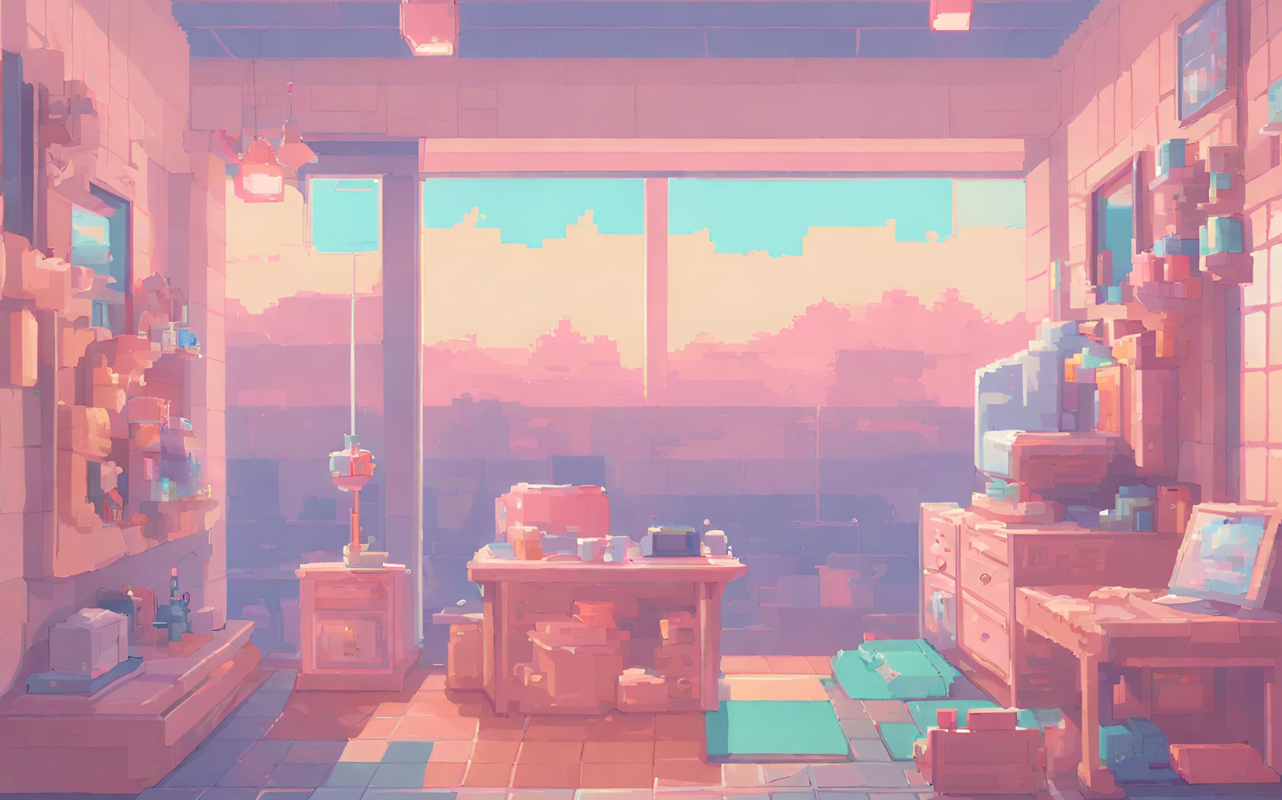
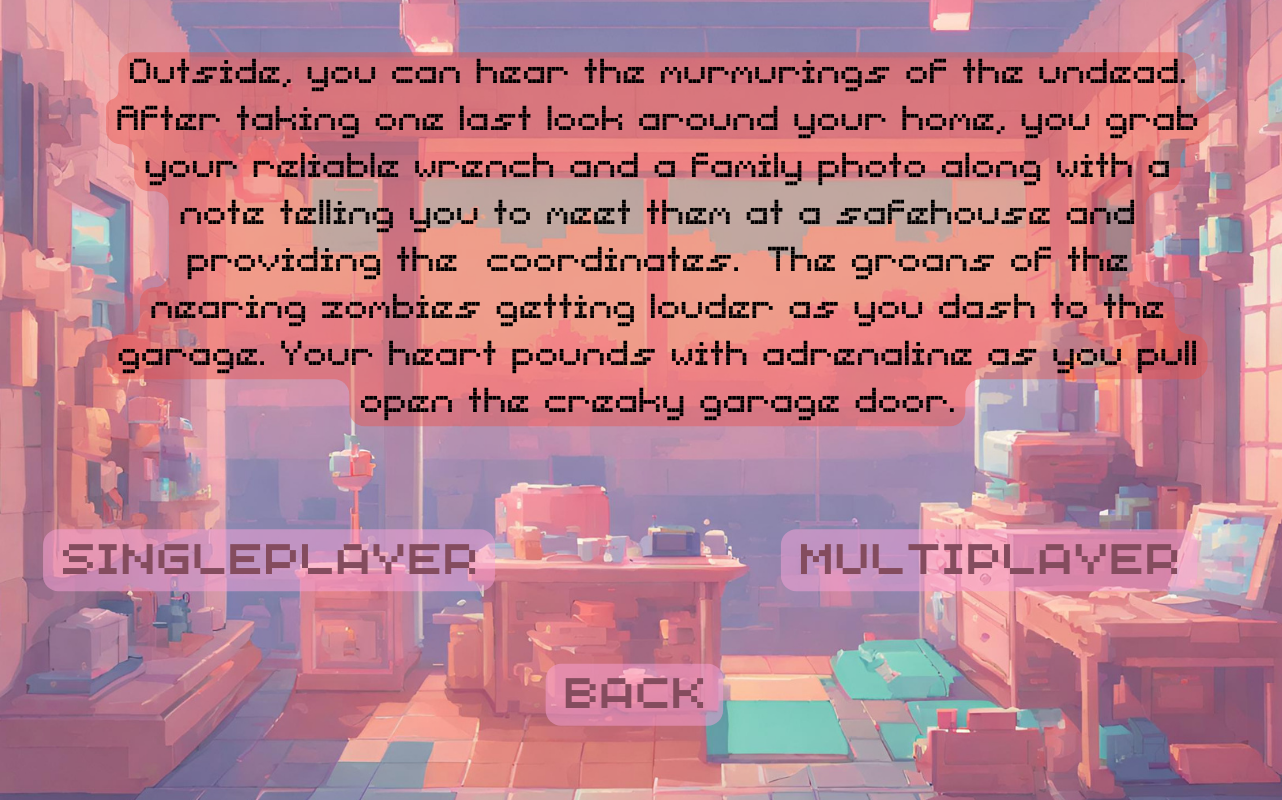
intro to game

diff --git a/game_mode.py b/game_mode.py
@@ -1,0 +1,42 @@
+import sys
+
+from instructions import instructions
+import pygame
+from config import intro_game
+from cursor import Cursor
+
+
+
+def game_intro():
+    pygame.init()
+    # custom cursor image
+    custom_cursor = Cursor()
+    cursor_group = pygame.sprite.Group()
+    cursor_group.add(custom_cursor)
+    # initialize at 1282x800
+    res = (1282, 800)
+    screen = pygame.display.set_mode(res)
+    # name
+    pygame.display.set_caption("Car Racer")
+
+    while True:
+        bg = pygame.image.load(intro_game)
+        screen.blit(bg, (0, 0))
+        # draw mouse
+        cursor_group.draw(screen)
+        cursor_group.update()
+        mouse = pygame.mouse.get_pos()
+        for event in pygame.event.get():
+            if event.type == pygame.QUIT:
+                sys.exit()
+            if event.type == pygame.MOUSEBUTTONDOWN:
+                if 475 <= mouse[0] <= 735 and 595 <= mouse[1] <= 712:  # TODO back to menu
+                    from mainmenu import menu #TODO fix circular import
+                    menu()
+            if event.type == pygame.MOUSEBUTTONDOWN:
+                if 475 <= mouse[0] <= 735 and 595 <= mouse[1] <= 712:  # TODO singleplayer
+                    instructions(1)
+            if event.type == pygame.MOUSEBUTTONDOWN:
+                if 475 <= mouse[0] <= 735 and 595 <= mouse[1] <= 712:  # TODO multiplayer
+                    instructions(2)
+        pygame.display.flip()

diff --git a/instructions.py b/instructions.py
@@ -1,11 +1,11 @@
 import sys
 import pygame
-from config import intructions
+from config import intructions_single
 from cursor import Cursor
 from level1 import start_level1
 
 
-def instructions():
+def instructions(players):
     pygame.init()
     # custom cursor image
     custom_cursor = Cursor()
@@ -18,7 +18,10 @@ def instructions():
     pygame.display.set_caption("Car Racer")
 
     while True:
-        bg = pygame.image.load(intructions)
+        if players == 1:
+            bg = pygame.image.load(intructions_single)
+        else:
+            bg = pygame.image.load(intructions_single) #TODO instrunctions multi
         screen.blit(bg, (0, 0))
         # draw mouse
         cursor_group.draw(screen)

diff --git a/mainmenu.py b/mainmenu.py
@@ -1,5 +1,6 @@
 import sys
-from instructions import instructions
+
+from game_mode import game_intro
 from load import continue_game
 from settings import settings
 from credits import credits_
@@ -45,7 +46,7 @@ def menu():
             # pressing the play button
             if ev.type == pygame.MOUSEBUTTONDOWN:
                 if 100 <= mouse[0] <= 445 and 140 <= mouse[1] <= 295:
-                    instructions()
+                    game_intro()
             # pressing the continue game button
             if ev.type == pygame.MOUSEBUTTONDOWN:
                 if 787 <= mouse[0] <= 1130 and 138 <= mouse[1] <= 292:

diff --git a/config.py b/config.py
@@ -7,12 +7,13 @@ icon_image = 'images/icon.png'
 cursor_img = "images/cursor.png"
 # Backgrounds
 main_menu = "images/menuimg.png"
+intro_game = "images/intro_to_game.png"
 garage = "images/garage.png"
 settings_screen = "images/settings.jpg"
 gameover = "images/gameOver.png"
 continue_scr = "images/inprogress.png"
 credits_screen = "images/credits.png"
-intructions = "images/instructions.png"
+intructions_single = "images/instructions.png"
 titlemenu = "images/titlemenu.png"
 pause_menu = "images/inprogress.png"
 
